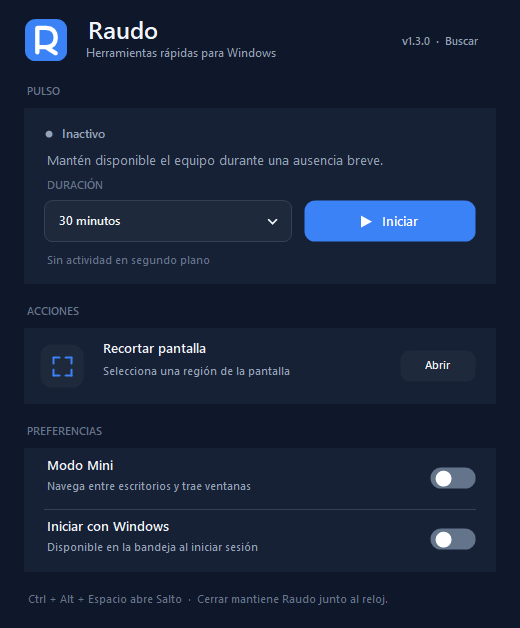
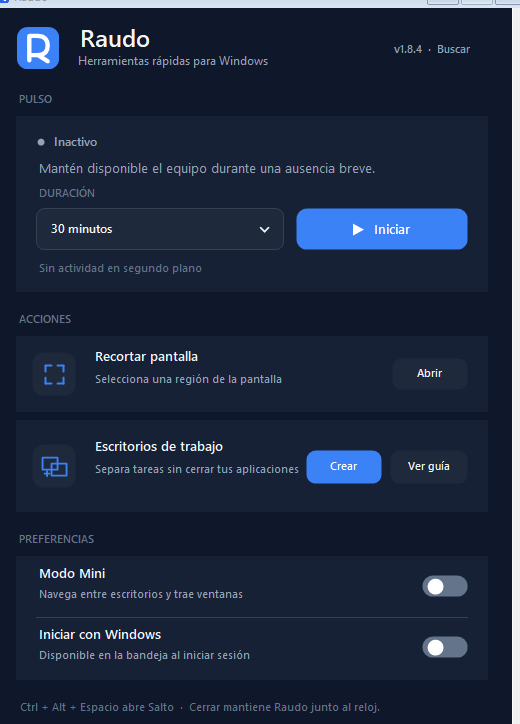
Prepare Raudo 1.8.4 release

diff --git a/src/Raudo/Properties/AssemblyInfo.cs b/src/Raudo/Properties/AssemblyInfo.cs
@@ -7,8 +7,8 @@ using System.Runtime.InteropServices;
 [assembly: AssemblyCompany("Adrielcrv")]
 [assembly: AssemblyProduct("Raudo")]
 [assembly: AssemblyCopyright("Copyright © 2026 Adrielcrv")]
-[assembly: AssemblyVersion("1.8.3.0")]
-[assembly: AssemblyFileVersion("1.8.3.0")]
+[assembly: AssemblyVersion("1.8.4.0")]
+[assembly: AssemblyFileVersion("1.8.4.0")]
 [assembly: ComVisible(false)]
 [assembly: Guid("6957c6c8-115a-483f-8a59-32d2024c6154")]
 [assembly: InternalsVisibleTo("Raudo.Tests")]

diff --git a/README.md b/README.md
@@ -21,8 +21,9 @@ Raudo reúne utilidades locales y ligeras para Windows en una aplicación de ban
 - Genera una entrada mínima únicamente después de 45 segundos sin actividad.
 - Restaura el cursor a su posición original.
 - Se limita a 15, 30, 60 o 120 minutos.
+- Conserva su vencimiento original al reiniciar Raudo o completar una actualización.
 - Se detiene al bloquear, suspender o cerrar la sesión interactiva de Windows.
-- No se activa automáticamente al iniciar la aplicación.
+- No inicia una sesión nueva automáticamente; sólo recupera una sesión vigente con su vencimiento original.
 
 ### Salto
 
@@ -47,6 +48,16 @@ Raudo reúne utilidades locales y ligeras para Windows en una aplicación de ban
   <img src="docs/raudo-salto-dark.png" width="640" alt="Salto de Raudo en modo oscuro">
 </p>
 
+### Voz
+
+- Escucha una orden al presionar `Ctrl + Alt + V` o seleccionar **Hablar con Raudo**; no mantiene un micrófono abierto ni una palabra de activación en segundo plano.
+- Utiliza el reconocimiento de gramática de Windows con un catálogo local y cerrado de órdenes en español.
+- Puede abrir aplicaciones instaladas, Salto, Raudo, YouTube o una búsqueda del clima; controlar Pulso, multimedia y volumen; recortar pantalla; crear o cambiar escritorios; calcular y convertir unidades.
+- Reconoce alias localizados de aplicaciones, por ejemplo **Bloc de notas**, aunque Windows exponga el nombre instalado en otro idioma.
+- Si una orden no se entiende o no coincide con una acción segura, vuelve a escuchar una vez en la misma sesión.
+- Requiere un idioma de voz en español instalado en Windows y permiso de micrófono para aplicaciones de escritorio.
+- El audio y el texto reconocido son transitorios: Raudo no los almacena, no conserva historial y no los envía a un servicio remoto.
+
 ### Multimedia
 
 - Ofrece reproducir o pausar, pista anterior, pista siguiente, silenciar, bajar volumen y subir volumen.
@@ -58,6 +69,13 @@ Raudo reúne utilidades locales y ligeras para Windows en una aplicación de ban
 ### Recortar pantalla
 
 Abre la Herramienta Recortes mediante el protocolo `ms-screenclip` incluido en Windows. Esta acción no captura ni lee el contenido del portapapeles.
+
+### Escritorios de trabajo
+
+- Permite crear un escritorio desde la ventana principal, la bandeja o una orden de voz.
+- Incluye una guía breve para personas que aún no utilizan los escritorios virtuales de Windows.
+- Mantiene Salto, la escucha de voz y sus confirmaciones en el escritorio activo.
+- Oculta las direcciones de navegación que no tienen un escritorio adyacente.
 
 ### Modo Mini
 
@@ -85,7 +103,7 @@ La detección de ventanas utiliza la interfaz pública `IVirtualDesktopManager`.
 
 ## Privacidad y red
 
-Raudo no incluye telemetría, cuentas ni publicidad. Las búsquedas de Salto permanecen en memoria y se utilizan únicamente para filtrar resultados o producir un cálculo o conversión local; sólo se guardan la posición y el nivel de opacidad elegidos. El catálogo de aplicaciones se consulta a Windows bajo demanda; Raudo no recorre el disco ni conserva las consultas. Un resultado sólo se escribe en el portapapeles después de seleccionarlo. Los controles multimedia automáticos envían comandos fijos; al abrir el selector de Mini, Raudo consulta localmente las sesiones que Windows expone y conserva de forma transitoria el nombre de la aplicación y su estado. Raudo sólo se conecta a Internet cuando el usuario selecciona **Buscar actualizaciones**. En una instalación local, puede descargar el paquete oficial después de una confirmación, validar su versión y sus sumas SHA-256, reemplazar el ejecutable de forma atómica y reiniciarse. Una copia portable abre la publicación para actualización manual.
+Raudo no incluye telemetría, cuentas ni publicidad. Las búsquedas de Salto permanecen en memoria y se utilizan únicamente para filtrar resultados o producir un cálculo o conversión local; sólo se guardan la posición y el nivel de opacidad elegidos. El catálogo de aplicaciones se consulta a Windows bajo demanda; Raudo no recorre el disco ni conserva las consultas. Un resultado sólo se escribe en el portapapeles después de seleccionarlo. Las órdenes de voz utilizan una gramática local y sólo existen durante la sesión de escucha iniciada por el usuario. Los controles multimedia automáticos envían comandos fijos; al abrir el selector de Mini, Raudo consulta localmente las sesiones que Windows expone y conserva de forma transitoria el nombre de la aplicación y su estado. Raudo sólo se conecta directamente a Internet cuando el usuario selecciona **Buscar actualizaciones**. Las acciones de YouTube o clima abren el navegador predeterminado, que administra su propia conexión. En una instalación local, Raudo puede descargar el paquete oficial después de una confirmación, validar su versión y sus sumas SHA-256, reemplazar el ejecutable de forma atómica y reiniciarse. Una copia portable abre la publicación para actualización manual.
 
 Consulta [PRIVACY.md](PRIVACY.md) para conocer los datos locales y el comportamiento de red.
 

diff --git a/PRIVACY.md b/PRIVACY.md
@@ -10,7 +10,15 @@ La duración seleccionada se guarda en:
 %LOCALAPPDATA%\Raudo\settings.json
 ```
 
-El mismo archivo conserva si Modo Mini está activo, su posición, la posición elegida para Salto y uno de sus tres niveles de opacidad. No contiene consultas, resultados, títulos de ventanas o nombres de aplicaciones.
+El mismo archivo conserva si Modo Mini está activo, su posición, la posición elegida para Salto, uno de sus tres niveles de opacidad, si ya se mostró la guía de escritorios y el vencimiento UTC de una sesión activa de Pulso. No contiene consultas, resultados, títulos de ventanas, nombres de aplicaciones, audio o texto reconocido.
+
+La gramática fija utilizada por la función de voz se prepara en:
+
+```text
+%LOCALAPPDATA%\Raudo\voice\commands-es-MX.srgs.xml
+```
+
+Este archivo contiene únicamente las órdenes incluidas con Raudo. No incorpora frases pronunciadas, grabaciones, consultas o nombres de aplicaciones instaladas.
 
 La opción **Iniciar con Windows** crea o elimina el valor `Raudo` en:
 
@@ -34,6 +42,14 @@ Los cálculos y conversiones se procesan localmente. Raudo sólo escribe el resu
 
 Raudo no lee el contenido de las ventanas, no recorre ni indexa archivos, no conserva el texto de búsqueda y no envía estos datos por la red. El catálogo de aplicaciones se prepara bajo demanda como máximo una vez por proceso; el indicador de preparación se muestra sólo durante esa operación y no registra su contenido. Las carpetas remotas y rutas de red no se consultan ni se muestran como accesos directos.
 
+## Órdenes de voz
+
+Raudo solicita acceso al micrófono únicamente después de que el usuario presiona `Ctrl + Alt + V` o selecciona **Hablar con Raudo**. El reconocimiento utiliza las restricciones de gramática de Windows y un catálogo local de acciones; no activa dictado libre, búsqueda web del reconocedor o escucha mediante palabra de activación.
+
+Windows entrega a Raudo el texto reconocido durante esa sesión. Raudo lo mantiene en memoria el tiempo necesario para resolver la acción y mostrar su confirmación; no guarda audio, texto, confianza, historial o estadísticas de voz. Si la primera orden no se entiende o no coincide con el catálogo seguro, puede realizar un segundo intento dentro de la misma sesión y después libera el reconocedor y el micrófono.
+
+Los nombres y alias de aplicaciones se preparan localmente para reconocer acciones como **abre Bloc de notas**. No se escriben en la gramática persistente ni se envían por la red.
+
 ## Controles multimedia
 
 En el modo automático, las acciones multimedia envían únicamente uno de seis comandos fijos de reproducción o volumen documentados por Windows después de una selección explícita. El texto de búsqueda no puede convertirse en una tecla o comando arbitrario.
@@ -49,3 +65,5 @@ Raudo no realiza conexiones automáticas. Al seleccionar **Buscar actualizacione
 La respuesta de metadatos se limita a 64 KB. Si existe una versión nueva y el usuario confirma la instalación, Raudo descarga únicamente el asset esperado desde la API oficial de GitHub, limita su tamaño, valida la versión y verifica tanto la suma SHA-256 del paquete como la del ejecutable. Una copia portable sólo puede abrir la publicación oficial en el navegador.
 
 El tratamiento de datos de esa solicitud está sujeto a la política de privacidad de GitHub.
+
+Las órdenes **abre YouTube** y **muestra el clima** abren una dirección o búsqueda explícita en el navegador predeterminado. La conexión posterior pertenece al navegador y a los sitios que el usuario abre; Raudo no recibe ni conserva su contenido.

diff --git a/CHANGELOG.md b/CHANGELOG.md
@@ -4,6 +4,17 @@ Este proyecto utiliza versionado semántico.
 
 ## [Sin publicar]
 
+## [1.8.4] - 2026-07-14
+
+- Órdenes de voz locales en español mediante `Ctrl + Alt + V`, activadas únicamente bajo demanda y limitadas a una gramática cerrada de acciones seguras.
+- Apertura de aplicaciones instaladas con alias localizados, controles de Pulso y multimedia, navegación y creación de escritorios, Recortes, cálculos y conversiones mediante voz.
+- Segundo intento automático cuando una orden no se entiende o no coincide con una acción disponible, sin mantener el micrófono activo en segundo plano.
+- Salto, la escucha de voz y sus confirmaciones siguen el escritorio activo en configuraciones con varios escritorios virtuales.
+- Creación de escritorios desde la ventana principal, la bandeja o voz, acompañada de una guía introductoria disponible bajo demanda.
+- Pulso conserva el vencimiento original y vuelve a establecer su solicitud a Windows después de una actualización o reinicio inesperado de Raudo.
+- Las salidas explícitas, el bloqueo, la suspensión y el cierre de sesión continúan apagando Pulso y eliminando su estado persistido.
+- Validación ampliada para gramática local, alias, reintentos, seguridad de comandos, seguimiento de escritorios, recuperación de Pulse y consumo de recursos.
+
 ## [1.7.0] - 2026-07-14
 
 - Salto adapta su tamaño a la intención actual: una fila para cálculos, conversiones y búsquedas específicas, hasta cinco filas para búsquedas amplias.

diff --git a/CODE_SIGNING.md b/CODE_SIGNING.md
@@ -4,7 +4,9 @@
 
 Los candidatos de publicación se compilan en GitHub Actions, incluyen hashes SHA-256 y generan una atestación de procedencia. Un artefacto de workflow no se presenta como versión estable.
 
-La primera versión estable permanecerá como borrador hasta contar con una ruta de firma de código verificable. La opción prevista es solicitar el programa gratuito de SignPath Foundation para proyectos de código abierto. La aceptación no está garantizada y no se afirmará que un binario está firmado hasta verificar su cadena y timestamp.
+Los ejecutables públicos actuales no tienen firma Authenticode. Windows puede mostrar una advertencia de reputación para una descarga nueva; esto no se presenta como garantía de seguridad ni como detección de malware. Antes de publicar, la versión estable se reconstruye desde el commit integrado, conserva la suma SHA-256 generada por el workflow y se acompaña de una atestación verificable de GitHub.
+
+La ruta prevista para Authenticode es solicitar un programa de firma para proyectos de código abierto. No se afirmará que un binario está firmado hasta verificar su cadena, identidad y timestamp en el asset publicado.
 
 ## Procedencia
 